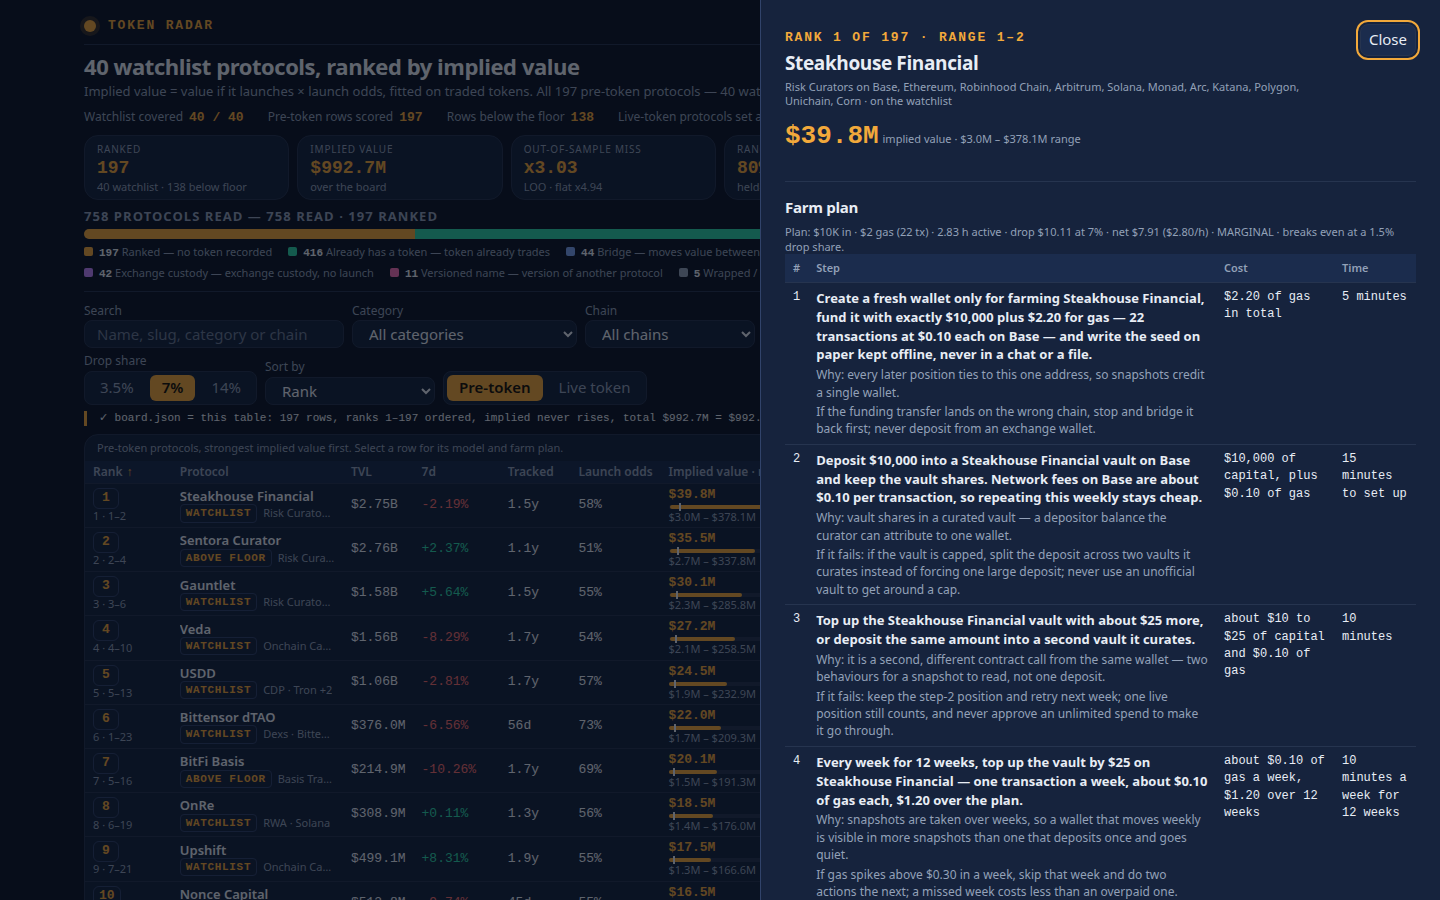
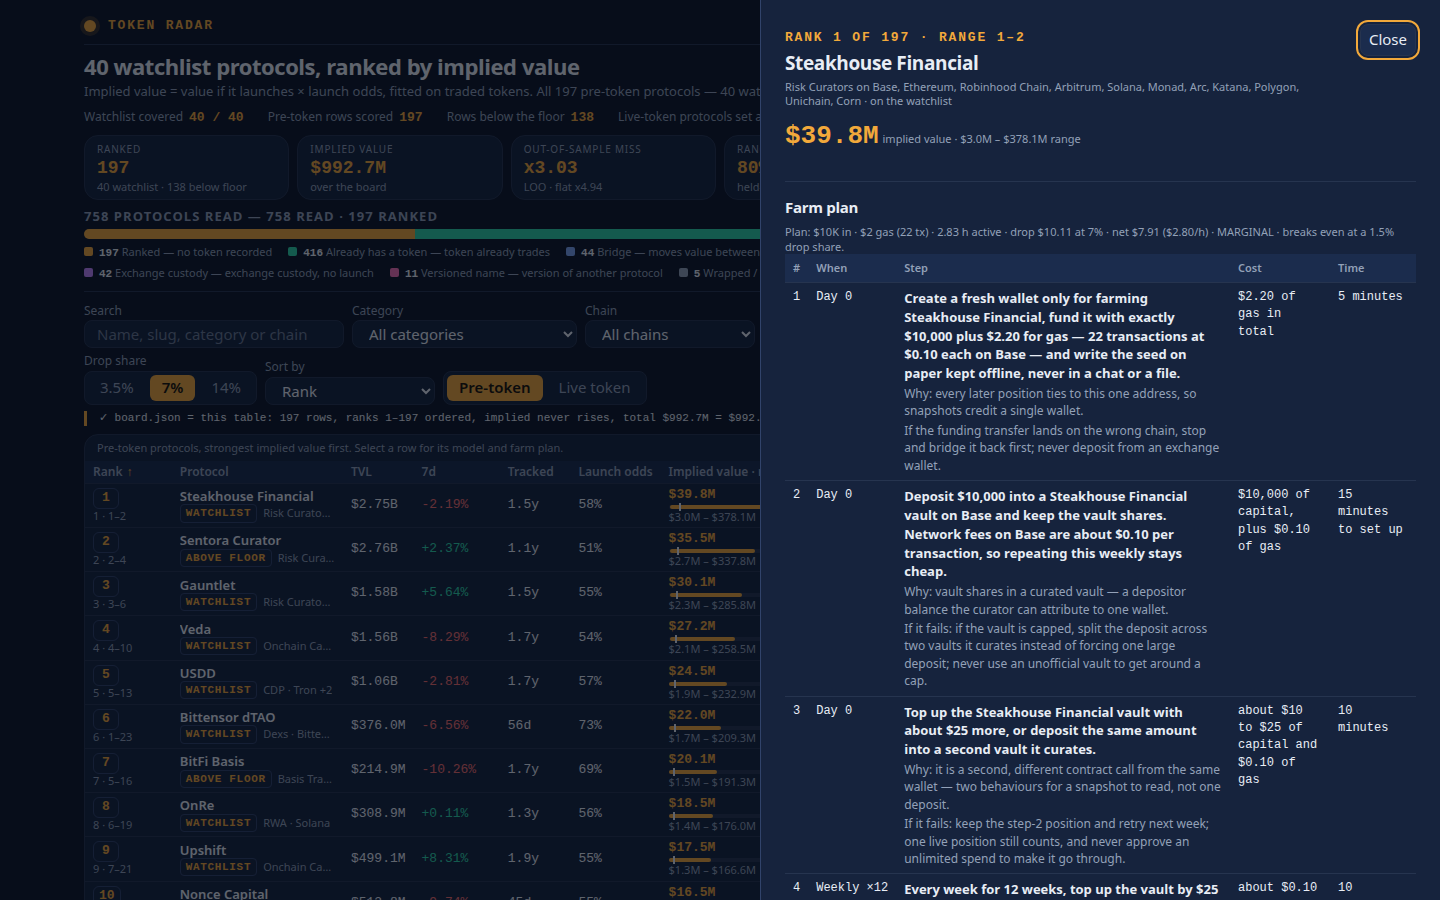
token-radar-01: comps-7 — farm-plan When column

Changed region(s): [[0.5625, 0.28, 0.9688, 0.9956], [0.9375, 0.7778, 0.9688, 0.8089], [0.9375, 0.3111, 0.9688, 0.3422]]

diff --git a/dashboard/app.js b/dashboard/app.js
@@ -372,15 +372,24 @@
       if (fi < 0) return { action: action, why: rest, ifb: '', cost: cost, time: time };
       return { action: action, why: rest.slice(0, fi + 1), ifb: rest.slice(fi + 2), cost: cost, time: time };
     }
+    function whenOf(a, hold) {
+      if (a.indexOf('Every week') === 0) return 'Weekly ×12';
+      if (a.indexOf('Hold ') === 0) return 'Days 0–' + hold;
+      if (a.indexOf('Before every transaction') === 0) return 'Every tx';
+      if (a.indexOf('Log the wallet') === 0) return 'Weekly · exit';
+      if (a.indexOf('points or rewards page') >= 0) return 'Week 1+';
+      if (a.indexOf('each week') >= 0) return 'Weekly';
+      return 'Day 0';
+    }
     var steps = (row.farm_steps || []).map(function (s, i) {
       var p = parseStep(s);
-      if (!p) return '<tr><td class="num">' + (i + 1) + '</td><td colspan="3">' + esc(s) + '</td></tr>';
-      return '<tr><td class="num">' + (i + 1) + '</td><td><b>' + esc(p.action) + '</b>' +
+      if (!p) return '<tr><td class="num">' + (i + 1) + '</td><td colspan="4">' + esc(s) + '</td></tr>';
+      return '<tr><td class="num">' + (i + 1) + '</td><td class="num">' + esc(whenOf(p.action, row.hold_days || 30)) + '</td><td><b>' + esc(p.action) + '</b>' +
         (p.why ? '<span class="fwhy">Why: ' + esc(p.why) + '</span>' : '') +
         (p.ifb ? '<span class="fwhy">' + esc(p.ifb) + '</span>' : '') + '</td>' +
         '<td class="num">' + esc(p.cost) + '</td><td class="num">' + esc(p.time) + '</td></tr>';
     }).join('');
-    var stepsHtml = '<table class="farm"><thead><tr><th scope="col">#</th><th scope="col">Step</th><th scope="col">Cost</th><th scope="col">Time</th></tr></thead><tbody>' + steps + '</tbody></table>';
+    var stepsHtml = '<table class="farm"><thead><tr><th scope="col">#</th><th scope="col">When</th><th scope="col">Step</th><th scope="col">Cost</th><th scope="col">Time</th></tr></thead><tbody>' + steps + '</tbody></table>';
     var comps = row.comparables || [];
     var compHtml = comps.length ? '<table class="mini comp"><thead><tr><th scope="col">Token that trades</th><th scope="col">TVL</th><th scope="col">MCAP</th><th scope="col">x TVL</th><th scope="col">Applied here</th></tr></thead><tbody>' +
       comps.map(function (p) { return '<tr><td>' + esc(p.name) + '</td><td class="num">' + esc(fmtUsd(p.tvl_usd)) + '</td><td class="num">' + esc(fmtUsd(p.mcap_usd)) + '</td><td class="num">' + esc(fmtMult(p.multiple)) + '</td><td class="num">' + esc(fmtUsd(p.applied_usd)) + '</td></tr>'; }).join('') + '</tbody></table>'

diff --git a/dashboard/app.css b/dashboard/app.css
@@ -107,8 +107,9 @@ td:first-child .sub{white-space:nowrap}
 .farm thead th{position:static;color:var(--muted);font-size:11px}
 .farm td.num{white-space:normal;font-family:var(--font-num);font-size:12px}
 .farm td:first-child{white-space:nowrap}
-.farm td:nth-child(3){width:118px}
-.farm td:nth-child(4){width:82px}
+.farm td:nth-child(2){width:88px}
+.farm td:nth-child(4){width:100px}
+.farm td:nth-child(5){width:86px}
 .fwhy{display:block;color:var(--muted);font-size:12px;line-height:1.45;margin-top:2px}
 @media (max-width:900px){
   .shell{padding:var(--s4)}

diff --git a/README.md b/README.md
@@ -6,9 +6,9 @@
 
 A token launch radar: it reads a sealed DefiLlama snapshot of 758 protocols and writes a web dashboard that ranks the 197 pre-token, standalone protocols by what their launch would be worth, each with a costed farm plan and a FARM / MARGINAL / SKIP verdict.
 
-## The model ("comps-6" — comps-5 layout, farm plans made visible)
+## The model ("comps-7" — comps-6 + farm-plan When column)
 
-comps-6 keeps the comps-5 model and layout unchanged and spends the improvement on criterion 3: the detail view now opens with the farm plan, rendered as a `# | Step | Cost | Time` table (action + why + failure branch per step, cost/time in their own columns), so shot 2 shows steps 1–4 instead of none. A local judge simulation vs the rank #1/#5 references had flagged farm-plan visibility as comps-5's consistent weak spot; see MODEL_NOTES.md.
+comps-7 keeps the comps-6 model and layout unchanged and adds a When column to the farm-plan table (`# | When | Step | Cost | Time`), derived from each step's own text (Day 0, Weekly ×12, Days 0–{hold_days} from the row's real hold_days, Week 1+, Every tx, Weekly · exit). The comps-6 simulation still had criterion 3 losing 1–3 vs rank #5 on its explicit timelines; see MODEL_NOTES.md.
 
 Implied value follows from the snapshot's own figures — no hardcoded names:
 
